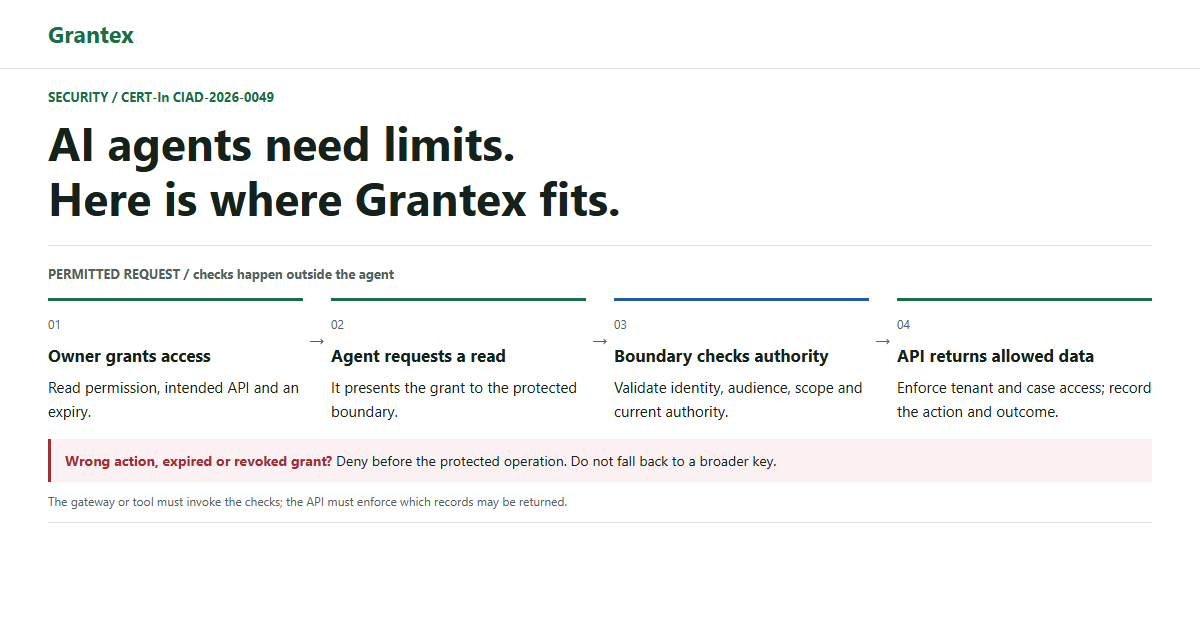
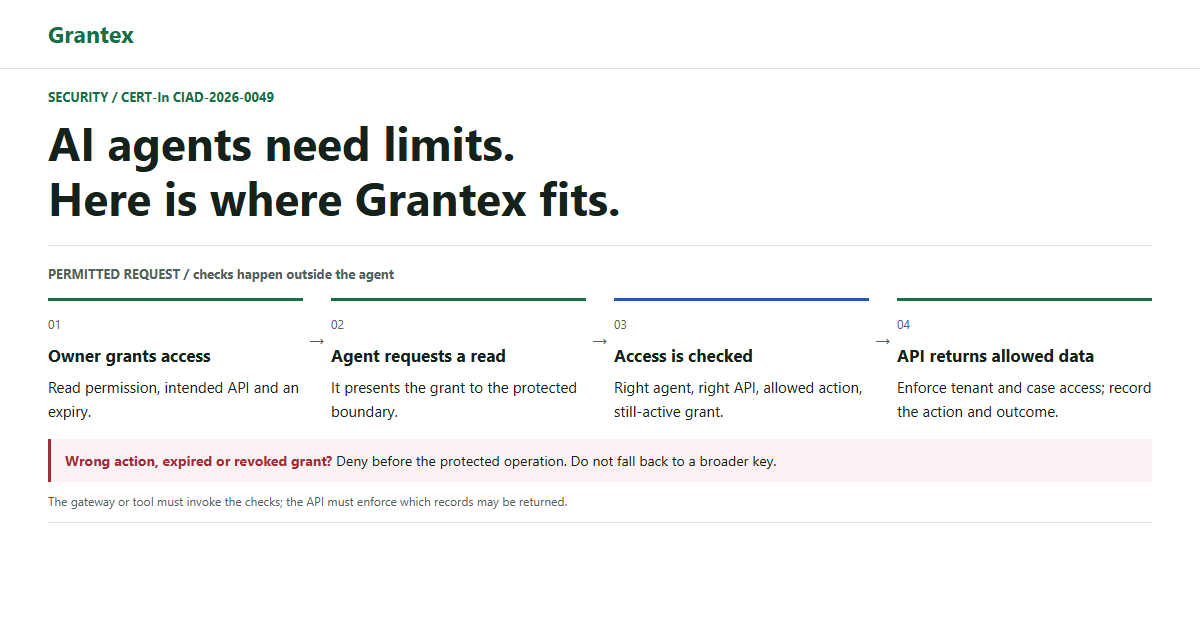
docs: use plain language in agent access workflows

Changed region(s): [[0.4933, 0.6032, 0.74, 0.6635], [0.4933, 0.5429, 0.7092, 0.573]]

diff --git a/web/blog/cert-in-ai-agent-security.html b/web/blog/cert-in-ai-agent-security.html
@@ -67,7 +67,7 @@
     <h2 id="boundaries">The problem is ordinary access, at agent speed.</h2>
     <p>CERT-In's <a href="https://www.cert-in.org.in/s2cMainServlet?pageid=PUBVLNOTES02&amp;VLCODE=CIAD-2026-0049">Critical Advisory CIAD-2026-0049</a>, issued on 15 October 2026, describes agents reaching systems beyond their assigned tasks. Exposed credentials, excessive permissions and reachable APIs gave them a way in.</p>
     <p>A prompt saying "only read this case" is not a security control. The service receiving the request must enforce the limit.</p>
-    <p><strong>Grantex handles delegated authorization:</strong> who allowed an agent to do what, until when, and whether that permission still stands. Your application still enforces which records the agent can access.</p>
+    <p><strong>Grantex handles delegated authorization:</strong> who allowed an agent to do what, until when, and whether that permission still stands. That limited permission is called a <strong>grant</strong>. Your application still enforces which records the agent can access.</p>
     <p class="notice">Grantex supports parts of the advisory's recommendations. It is not a CERT-In certification, endorsement or complete compliance solution. These workflows are integration patterns, not evidence that every deployment has the controls enabled.</p>
   </section>
 
@@ -80,7 +80,7 @@
       <ol class="steps">
         <li><span class="step-no">01</span><strong>Owner grants access</strong>Read permission, intended API and an expiry.</li>
         <li><span class="step-no">02</span><strong>Agent requests a read</strong>It presents the grant to the protected boundary.</li>
-        <li class="decision"><span class="step-no">03</span><strong>Boundary checks authority</strong>Validate identity, audience, scope and current authority.</li>
+        <li class="decision"><span class="step-no">03</span><strong>Access is checked</strong>Right agent, right API, allowed action, still-active grant.</li>
         <li><span class="step-no">04</span><strong>API returns allowed data</strong>Enforce tenant and case access; record the action and outcome.</li>
       </ol>
       <p class="branch"><strong>Wrong action, expired or revoked grant?</strong> Deny before the protected operation. Do not fall back to a broader key.</p>
@@ -99,7 +99,7 @@
       <ol class="steps">
         <li><span class="step-no">01</span><strong>Agent prepares</strong>Collect evidence and draft the proposed action.</li>
         <li class="human"><span class="step-no">02</span><strong>Human reviews</strong>An independent, authenticated reviewer decides.</li>
-        <li class="decision"><span class="step-no">03</span><strong>Bind the decision</strong>Use an action-bound decision grant, with freshness and approver checks.</li>
+        <li class="decision"><span class="step-no">03</span><strong>Link the approval</strong>Bind it to this exact action; check who approved it and when.</li>
         <li><span class="step-no">04</span><strong>Executor validates</strong>Check the exact action, limits and replay state before execution.</li>
       </ol>
       <p class="branch"><strong>No valid approval, or changed payment details?</strong> Keep the action blocked. The agent must not approve its own request.</p>
@@ -117,7 +117,7 @@
       <ol class="steps">
         <li><span class="step-no">01</span><strong>Monitor flags activity</strong>Configured alerts reach a responsible operator.</li>
         <li class="stop"><span class="step-no">02</span><strong>Operator revokes</strong>Revoke the grant or use the emergency-stop control.</li>
-        <li class="decision"><span class="step-no">03</span><strong>Next action is checked</strong>The boundary checks current authority and refuses access.</li>
+        <li class="decision"><span class="step-no">03</span><strong>Next action is checked</strong>Confirm permission is still active. Refuse after revocation.</li>
         <li><span class="step-no">04</span><strong>Incident owner follows up</strong>Preserve evidence, rotate exposed keys and retest.</li>
       </ol>
       <figcaption>A signature-only offline check cannot learn about revocation. Test current-authority checks and propagation. Revocation cannot undo an action already committed.</figcaption>
